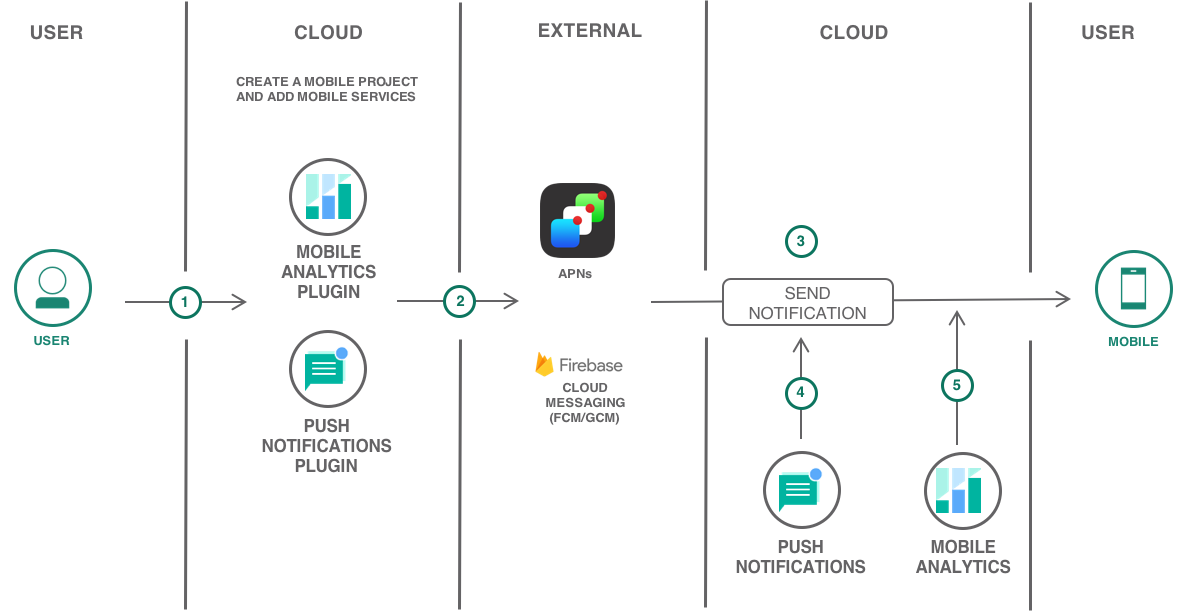
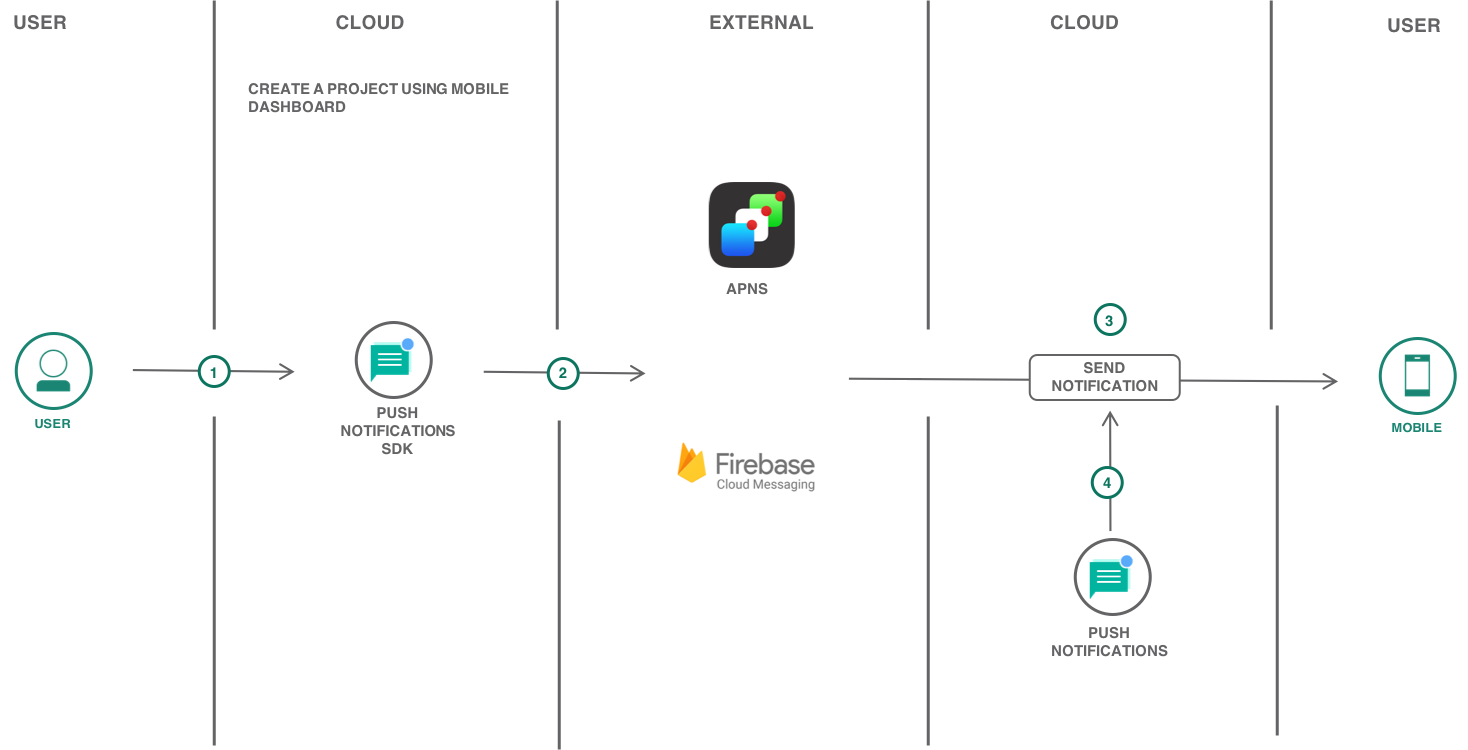
Removed mobile analytics from hybrid mobile solution

diff --git a/hybrid-mobile-push-analytics.md b/hybrid-mobile-push-analytics.md
@@ -1,7 +1,7 @@
 ---
 copyright:
   years: 2017, 2018
-lastupdated: "2018-06-07"
+lastupdated: "2018-10-01"
 
 ---
 
@@ -12,29 +12,26 @@ lastupdated: "2018-06-07"
 {:tip: .tip}
 {:pre: .pre}
 
-# Hybrid mobile application with Push and Analytics
+# Hybrid mobile application with Push Notifications
 
-Learn how easy it is to quickly create a Hybrid Cordova application with high-value mobile services like {{site.data.keyword.mobilepushshort}} and {{site.data.keyword.mobileanalytics_short}} on {{site.data.keyword.Bluemix_notm}}.
+Learn how easy it is to quickly create a Hybrid Cordova application with high-value mobile service like {{site.data.keyword.mobilepushshort}} on {{site.data.keyword.Bluemix_notm}}.
 
 Apache Cordova is an open-source mobile development framework. It allows you to use standard web technologies - HTML5, CSS3, and JavaScript for cross-platform development. Applications execute within wrappers targeted to each platform, and rely on standards-compliant API bindings to access each device's capabilities such as sensors, data, network status, etc.
 
-This tutorial walks you through the creation of a Cordova mobile starter application, adding mobile services, setting up client SDKs, downloading the scaffolded code and then further enhancing the application.
+This tutorial walks you through the creation of a Cordova mobile starter application, adding a mobile service, setting up client SDK, downloading the scaffolded code and then further enhancing the application.
 
 ## Objectives
 
-* Create a mobile project with {{site.data.keyword.mobilepushshort}} and {{site.data.keyword.mobileanalytics_short}} services.
+* Create a mobile project with {{site.data.keyword.mobilepushshort}} service.
 * Learn how to obtain APNs and FCM credentials.
 * Download the code and complete required setup.
-* Instrumenting the app to use {{site.data.keyword.mobileanalytics_short}}.
 * Configure, send, and monitor {{site.data.keyword.mobilepushshort}}.
-* Monitoring the app with {{site.data.keyword.mobileanalytics_short}}.
 
  ![](images/solution15/Architecture.png)
 
 ## Products
 
 This tutorial uses the following products:
-   * [{{site.data.keyword.mobileanalytics_full}}](https://console.bluemix.net/catalog/services/mobile-analytics)
 * [{{site.data.keyword.pushfull}}](https://console.bluemix.net/catalog/services/push-notifications)
 
 ## Before you begin
@@ -50,20 +47,21 @@ This tutorial uses the following products:
 {: #get_code}
 The {{site.data.keyword.Bluemix_notm}} Mobile Dashboard allows you to fast-track your mobile app development by creating your project from a Starter Kit.
 1. Navigate to [Mobile Dashboard](https://console.bluemix.net/developer/mobile/dashboard).
-2. Click on **Starter Kits** and scroll down to select the **Basic** Starter Kit.
-    ![](images/solution6/mobile_dashboard.png)
+2. Click on **Starter Kits** and click on **Create App**.
+    ![](images/solution15/mobile_dashboard.png)
 3. Enter a project name, this can be your app name as well.
-4. Select **Cordova** as your language and check the mobile services in the right pane.
+4. Select **Cordova** as your language and click **Create**.
 
     ![](images/solution15/create_cordova_project.png)
-5. Click on **Create Project** to scaffold a Cordova (Javascript) App.
-6. A new Project will be created under **Projects** tab on the left pane.
+5. Click on **Add Resource** > Mobile > **Push Notifications** and select the region you want to provision the service, resource group and **Lite** pricing plan.
+6. Click **Create** to provision {{site.data.keyword.mobilepushshort}} service. A new App will be created under **Apps** tab.
 
-    **Note:** {{site.data.keyword.mobilepushshort}}, and {{site.data.keyword.mobileanalytics_short}} Services should be added to the Basic Starter.
+    **Note:** {{site.data.keyword.mobilepushshort}} service should be added to the Empty Starter.
 
 In the next step, you will download the scaffolded code and complete the required setup.
 
 ## Download the code and complete required setup
+{: #download_code}
 
 If you haven't downloaded the code yet, then use {{site.data.keyword.Bluemix_notm}} Mobile dashboard to get the code by clicking on the **Download Code** button under Projects > **Your Mobile Project**.
 
@@ -94,29 +92,8 @@ If you haven't downloaded the code yet, then use {{site.data.keyword.Bluemix_not
     You can find your project name in `config.xml` file by running `cordova info` command.
     {: tip}
 
-## Instrumenting the app to use {{site.data.keyword.mobileanalytics_short}}.
-
-1. Go to your Mobile dashboard > Projects > Cordova Project, Click on **Show** to unveil Push and Analytics service credentials.
-
-   ![mobile dashboard](images/solution15/mobile_dashboard.png)
-
-2. In `index.js`, under `onDeviceReady` function, update the value of `applicationName` with your app name and replace the value of `analyticsApiKey` with Analytics **apiKey**.
-3. Just after **BMSAnalytics.initialize** call, add the below code to send analytics data to server
-
-    ```
-    BMSAnalytics.setUserIdentity("{YOUR_USER_IDENTITY}");
-    BMSAnalytics.send();
-    ```
-4. For logging, add the below code after **BMSLogger.setLogLevel** call
-   ```
-   BMSLogger.send();
-   ```
-   Build and run the app. Navigate to the respective {{site.data.keyword.mobileanalytics_short}} service > Manage > `Sessions` to see your app analytics.
-
- For advanced Analytics and logging capabilities, Refer [Gathering usage Analytics](https://github.com/ibm-bluemix-mobile-services/bms-clientsdk-cordova-plugin-core#using-bmsanalytics) and [logging](https://github.com/ibm-bluemix-mobile-services/bms-clientsdk-cordova-plugin-core#using-bmslogger)
- {:tip}
-
 ## Obtain FCM and APNs credentials
+{: #obtain_fcm_apns_credentials}
 
  ### Configure Firebase Cloud Messaging (FCM)
 
@@ -143,6 +120,7 @@ Refer [Obtain APNs credentials and configure {{site.data.keyword.mobilepushshort
 {: tip}
 
 ## Configure, send and monitor {{site.data.keyword.mobilepushshort}}
+{: #configure_push}
 
 1. In index.js, under `onDeviceReady` function, replace the values  `{pushAppGuid}` and
 
@@ -185,23 +163,10 @@ You can monitor your sent notifications by navigating to **Monitoring** section.
 The IBM {{site.data.keyword.mobilepushshort}} service now extends capabilities to monitor the push performance by generating graphs from your user data. You can use the utility to list all the sent {{site.data.keyword.mobilepushshort}}, or to list all the registered devices and to analyze information on a daily, weekly, or monthly basis.
  ![](images/solution6/monitoring_messages.png)
 
-## Monitoring the app with {{site.data.keyword.mobileanalytics_short}}.
-
-You can record application logs and monitor data with the {{site.data.keyword.mobileanalytics_short}} Client SDK. Developers can control when to send this data to the {{site.data.keyword.mobileanalytics_short}} Service. When data is delivered to {{site.data.keyword.mobileanalytics_short}}, you can use the {{site.data.keyword.mobileanalytics_short}} console to get analytics insights about your mobile applications, devices, and application logs.
-1. Open the **{{site.data.keyword.mobileanalytics_short}}** service from the mobile project you created or click on the three vertical dots next to the service and select **Open Dashboard**.
-2. You should see LIVE Users, Sessions, and other App Data by disabling **Demo Mode**. You can filter the analytics information by
-   - Date.
-   - Application.
-   - Operating System.
-   - The version of the app.
-
-     ![](images/solution15/cordova_mobile_analytics.png)
-3. [Click here](https://console.bluemix.net/docs/services/mobileanalytics/app-monitoring.html#monitoringapps) to set alerts, monitor app crashes, and monitor network requests.
-
 ## Related Content
+{: #related_content}
 
 - [Tag-based notifications](https://console.bluemix.net/docs/services/mobilepush/push_step_4_nf_tag.html#tag_based_notifications)
 - [{{site.data.keyword.mobilepushshort}} REST APIs](https://console.bluemix.net/docs/services/mobilepush/push_restapi.html#push-api-rest)
 - [Security in {{site.data.keyword.mobilepushshort}}](https://console.bluemix.net/docs/services/mobilepush/push_security.html#overview-push)
-- [Exporting Analytics data to Db2 Warehouse](https://console.bluemix.net/docs/services/mobileanalytics/app-monitoring.html#dashdb)
 
